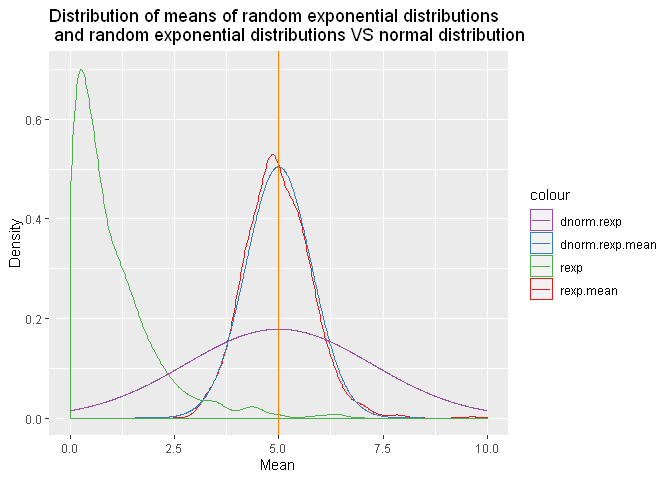
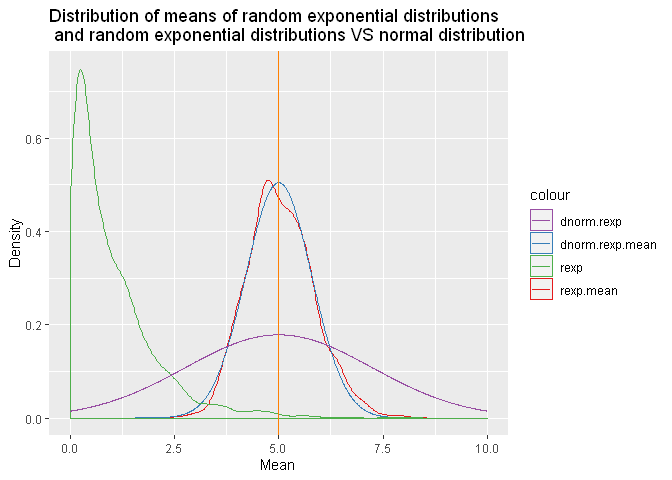
Update github repo url

diff --git a/stat-inference-rexp.md b/stat-inference-rexp.md
@@ -13,7 +13,7 @@ Specialization](https://www.coursera.org/specializations/jhu-data-science).
 <!--more-->
 
 Source code available on
-[GitHub](https://github.com/bmaingret/eda-storm-data)
+[GitHub](https://github.com/bmaingret/stat-inference-project)
 
 ## Overview
 
@@ -71,7 +71,7 @@ qplot(exp.mean) + geom_vline(xintercept=theory.mean.mean, color="red") +
 From the CLT, the theoritical mean is \(\frac{1}{\lambda}=5\),
 represented by the **red** line on the graph above.
 
-The empirical mean is *4.9856209*, represented by the **blue** line on
+The empirical mean is *5.0467217*, represented by the **blue** line on
 the graph above, which is very close to the theoritical mean.
 
 ## Sample mean variance versus theory
@@ -81,7 +81,7 @@ We can have a look at the variance of the means.
 From the CLT, the theoritical var is \(\frac{1}{\lambda^2*n}=0.625\),
 represented by the **red** line on the graph above.
 
-The empirical var is *0.6099441*, represented by the **blue** line on
+The empirical var is *0.6310375*, represented by the **blue** line on
 the graph above, which is very close to the theoritical var
 
 ## Distribution: is it normal?

diff --git a/stat-inference-toothgrowth.md b/stat-inference-toothgrowth.md
@@ -13,7 +13,7 @@ Specialization](https://www.coursera.org/specializations/jhu-data-science).
 <!--more-->
 
 Source code available on
-[GitHub](https://github.com/bmaingret/eda-storm-data)
+[GitHub](https://github.com/bmaingret/stat-inference-project)
 
 ## Overview
 
